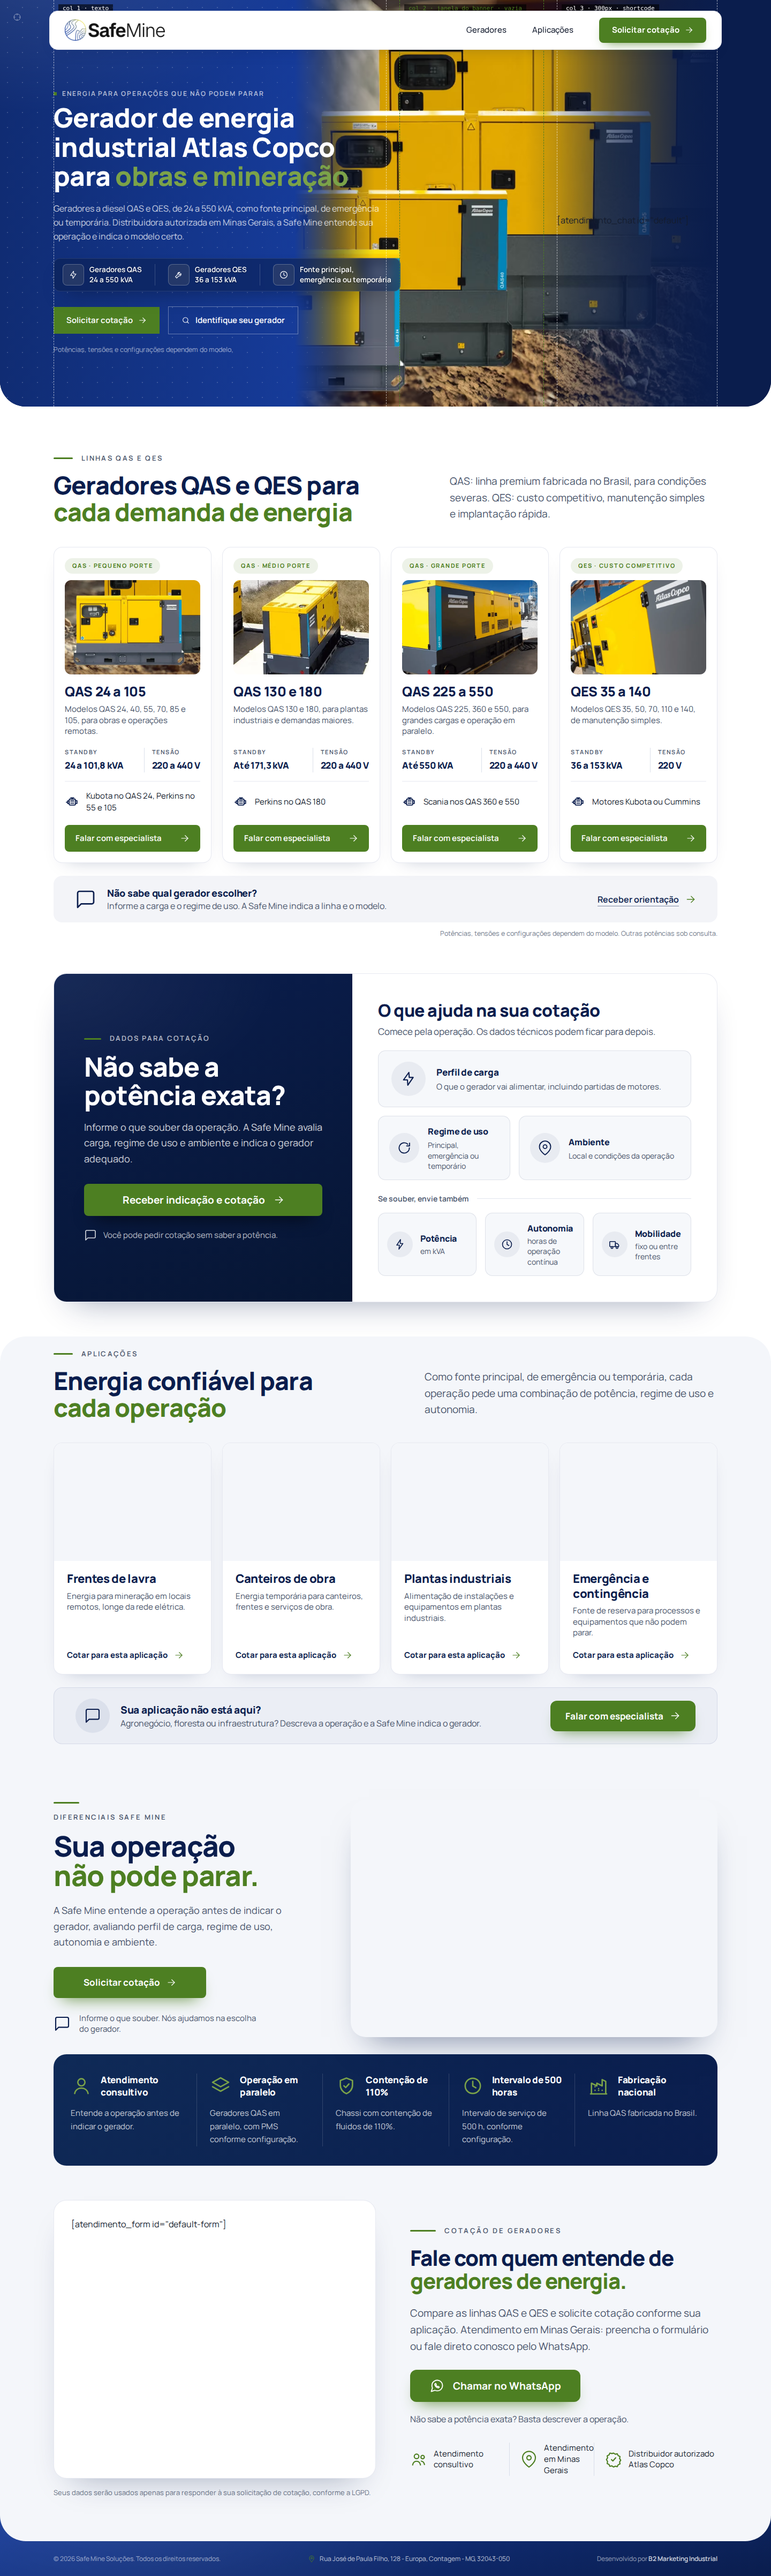
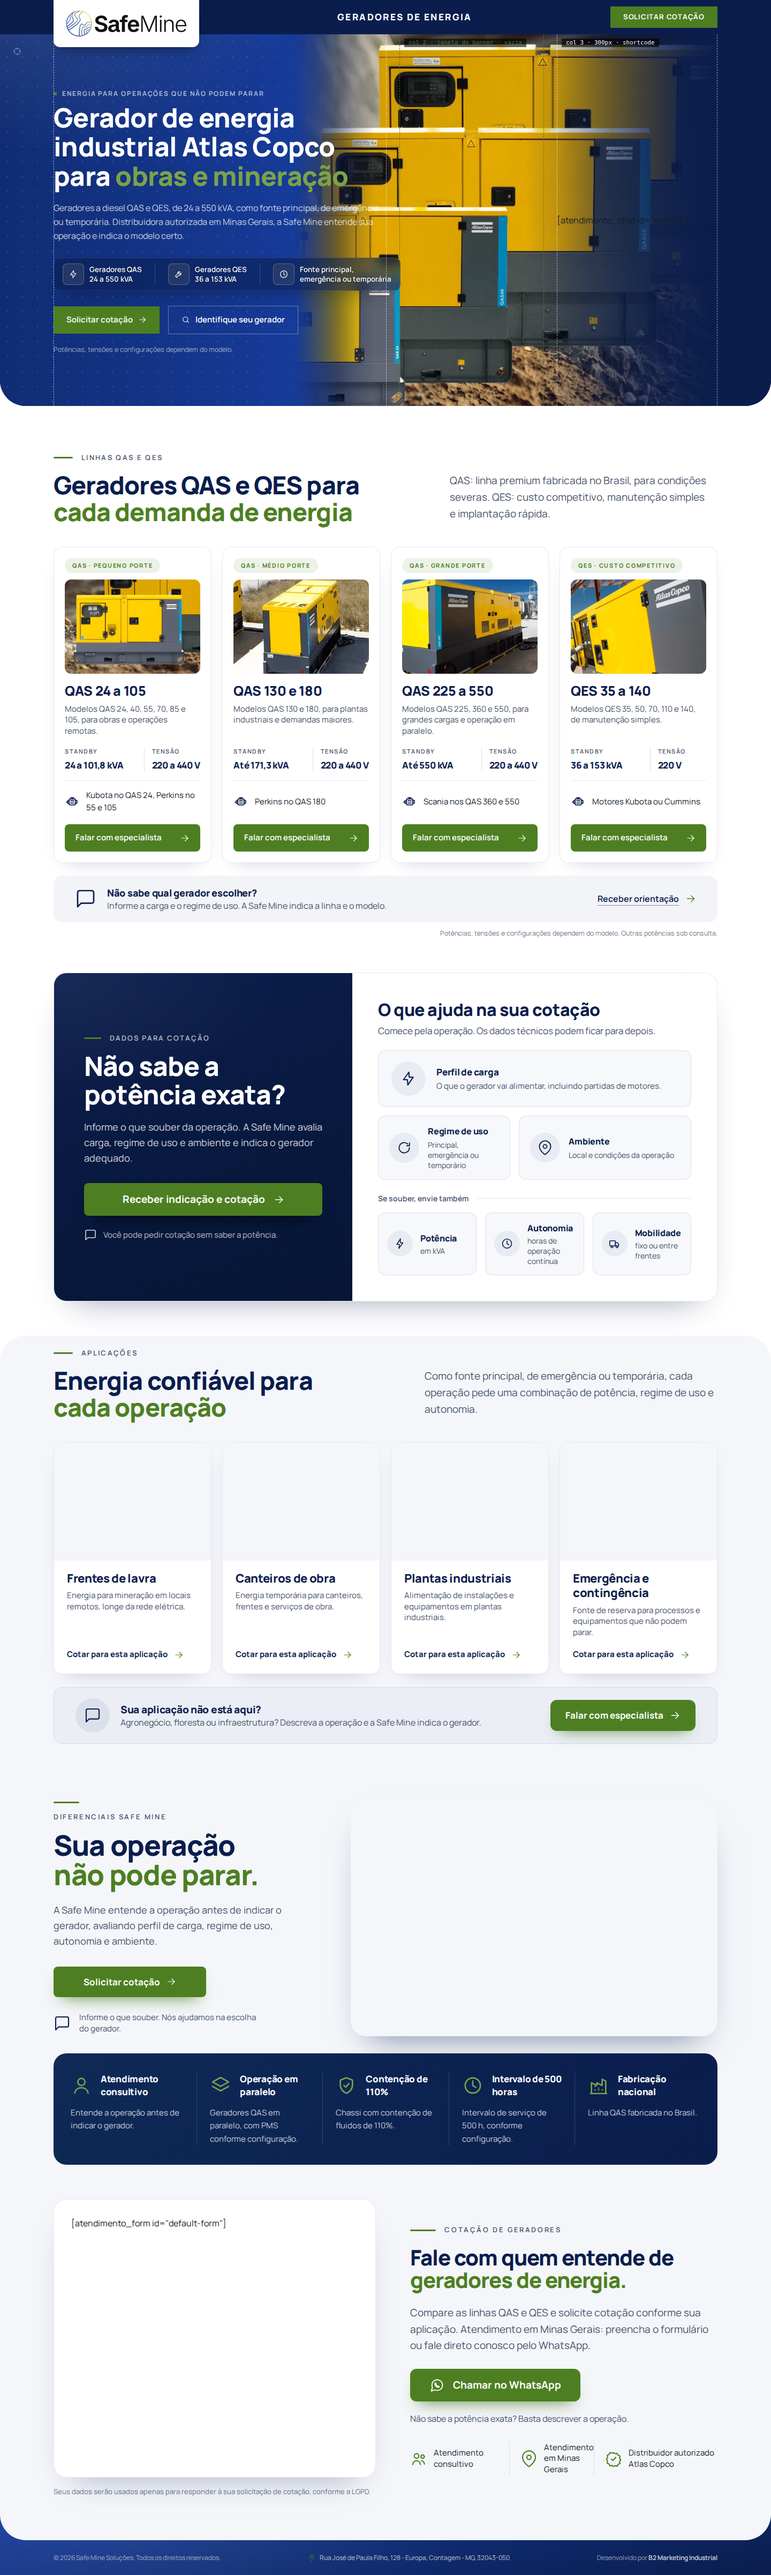
fix(header): restaura a estrutura fixa 4.1.1
Barra navy sticky, logo em placa branca pendurada, tagline central e CTA
laranja, sem âncoras, como nas demais LPs da B2. Nas LPs da SEIVE a placa
leva o logo SEIVE, um separador e o Safe Mine. O Hero volta ao padding do
padrão, já que o header não é mais sobreposto. Assinatura A8 do Header e
BRIEFING atualizados; screenshots regerados.

diff --git a/src/data/content.ts b/src/data/content.ts
@@ -42,11 +42,8 @@ export const cta = {
 /* ------------------------------------------------------------------ header */
 
 export const header = {
-  /** Âncoras da barra (desvio do padrão herdado da LP de compressores): rolam até as seções. */
-  nav: [
-    { id: 'geradores', label: 'Geradores', href: '#linhas' },
-    { id: 'aplicacoes', label: 'Aplicações', href: '#aplicacoes' },
-  ],
+  /** Tagline central da barra (estrutura fixa 4.1.1): o produto principal. */
+  tagline: 'Geradores de energia',
 } as const
 
 /* -------------------------------------------------------------------- hero */

diff --git a/docs/BRIEFING.md b/docs/BRIEFING.md
@@ -74,6 +74,10 @@ Pendências em `docs/FICHA-LP.md`. Na Vercel não há o plugin de atendimento: o
 
 ## Desvios do padrão
 
-- **Header:** barra branca flutuante com a logo da Safe Mine, pedida pela B2 em 29/10/2026 com o mockup do topo. A assinatura do `check:lp` conhece essa estrutura.
+- **Header:** sem desvio. Restaurado em 01/11/2026 à estrutura fixa 4.1.1 (barra navy sticky, logo em placa pendurada, tagline central, CTA laranja, sem âncoras).
 - **Hero:** sem desvio. O Hero da primeira versão (fundo claro, sem a coluna do chat) foi substituído em 01/11/2026 pelo da estrutura fixa 4.1.2: grid `1fr · 270px · 300px`, coluna 2 vazia, slot `shortcode` de 300px, foto de 1700px ancorada na borda do container. A faixa de prioridades e o cartão de ajuda do hero saíram; a nota ficou sob os botões. A foto foi reenquadrada em 1981×900, com o grupo em ~70% da largura.
 - **Paleta:** os véus do hero usam o azul `#0a1d4d` da marca no lugar do navy `#001830` do template. O token `accent-orange-light` (`#7ba249`) existe só para o destaque do H1 sobre o fundo escuro.
+
+## Header restaurado ao padrão (01/11/2026)
+
+A pedido do usuário, o Header deixou a barra branca flutuante do mockup de 29/10/2026 e voltou à estrutura fixa 4.1.1, como nas demais LPs da B2: barra navy `sticky`, a placa branca traz o logo da Safe Mine, tagline central "Geradores de energia" e CTA laranja em caixa-alta ("Cotação" no celular). As âncoras do topo saíram. O Hero voltou ao padding do padrão (`py-20 lg:py-24`), já que o header não é mais sobreposto. A assinatura A8 do Header em `scripts/check-lp.mjs` voltou à da estrutura fixa.
